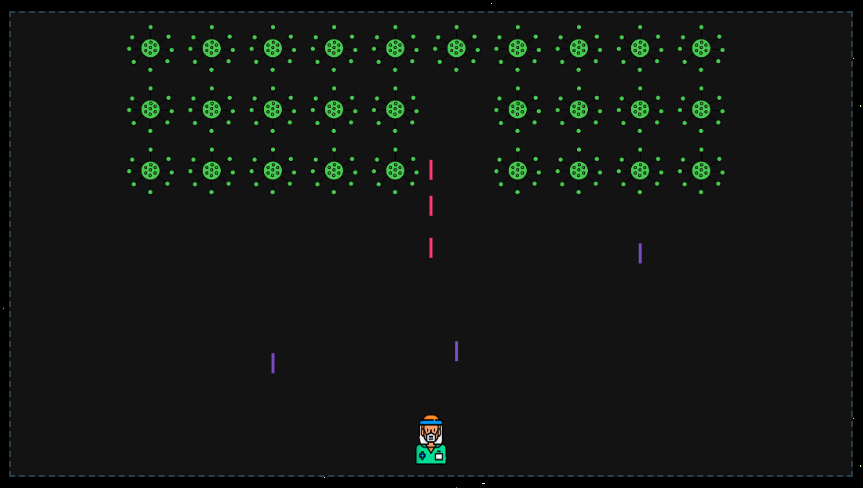
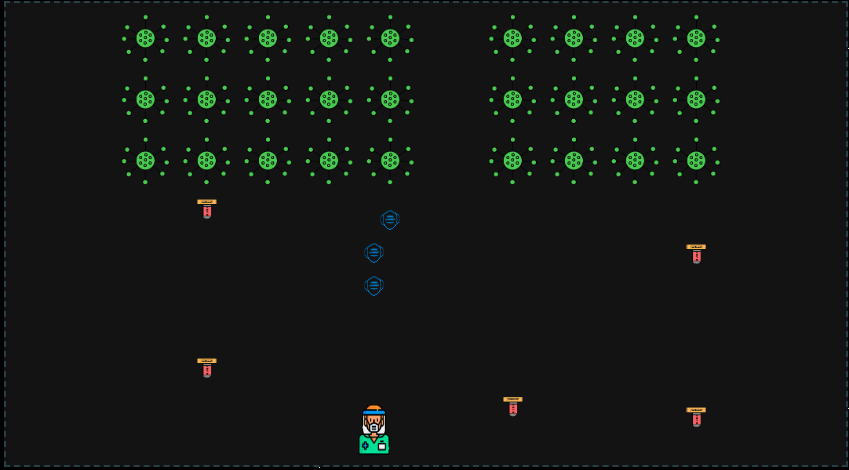
updated

diff --git a/src/pages/informationGame.js b/src/pages/informationGame.js
@@ -12,46 +12,70 @@ function informationGame(_data) {
             </div>
             
             <div class="information-content">
-                <h1 class="title">Senaryo</h1>
-                <p class="text">Yakin zamanlarda dünyadan gezegenimize gelen kişilerden korona virüsleri geldiği ortaya cikmistir. Ve kendini bu konuya adayan sağlık çalisanimiz korona virüslerini imha etmek için elinden geleni ortaya koyar. Düşük seviyede olan koronalar imha edilirse bir sonraki seviyeye geçilerek devam edilir. Eğer ki koronalar tarafından virüs kaparsa halkta buna bağlı olarak koronaya yakalanacaktır.</p>
+                <h1 class="title">Nasıl oynayabilirsin ?</h1>
+                </br>
+                <h4 class="text">
+                    Oyunumuza giriş yapmadan önce bizi giriş ekranımız karşılıyor. 
+                    Dilerseniz oyuna isiminizi yazdıktan sonra oyuna giriş yapabilirsiniz.
+                    Korona Hunter'ın açık kaynak koduna veya iletişim bilgilerine ulaşabilirsiniz.</h4>
+                    <img id="folder" src="./assets/doc1.png" width="400px" height="auto">
+                </br>
+                <h4 class="text">Space(Bosluk) tuşumuz ile koronalara maske yollayarak imha edebilirsiniz. Sag ve Sol ok tuşlari ile düşman kurşunundan kaçabilirsiniz.</h4>
+                <img id="folder" src="./assets/doc-game.png" width="400px" height="auto">
+                </br>
+                <h4 class="text"> 
+                    Oyunu basarili veya başarısız bitirdiğimiz taktirde bizi altta belirttiğimiz ekranlar karşılıyor. 
+                    Eger basarili olunduğu taktirde bir sonraki seviyeye geçebilirsin. 
+                    Başarısız olunduğu taktirde bizi ana ekrana geçebilirsin. 
+                    Tekrar oynamak istediğinde giris yapabilir ve tekrardan oyuna ulaşabilirsin.</h4>
+                <img id="folder" src="./assets/doc2.png" width="400px" height="auto">
+                <img id="folder" src="./assets/doc3.png" width="400px" height="auto">
             </div>
 
             <div class="information-content">
-                <h1 class="title">Oyun sahnesi</h1>
-                <p class="text">Oyun sahnesi olarak 3 çeşitler sahne içeriyor. Ana oyunun oynandigi, basarili olunduğunda bir sonraki asamaya gecilen  ve son olarak basarisiz olunduğunda bizi karsilicak oyun sahneleri içeriyor. Projenin giriş ekranı ve oyunun nasıl oynancagini anlatacagimiz dokümantasyon sayfalari bulunuyor. </p>
+                <h1 class="title">Senaryo</h1>
+                <p class="text">
+                    Yakın zamanlarda dünyadan gezegenimize gelen kişiler ile birlikte korona virüsleri de geldiği ortaya çıkmıştır. 
+                    Ve kendini bu konuya adayan sağlık çalışanımız korona virüslerini imha etmek için elinden geleni ortaya koyar. 
+                    Koronalar portakallı korona virüsü yollar. Sağlık çalışanımız buna karşılık maske yollayarak korona virüslerini imha eder.
+                    Düşük seviyede olan koronalar imha edilirse bir sonraki seviyeye geçilerek devam edilir. 
+                    Eğer ki koronalar tarafından virüs kaparsa halkta buna bağlı olarak koronaya yakalanacaktır. Dikkatli ol halkı kurtar!
+                </p>
+            </div>
+
+            <div class="information-content">
+                <h1 class="title">Oyun Sahnesi</h1>
+                <p class="text">
+                    Oyun sahnesi olarak 3 çeşitler sahne içeriyor. 
+                    Ana oyunun oynalındığı ekran, koronaları başarılı bir şekilde imha edildiğinde bizi karşılayacak ekran,
+                    ve son olarak basarisiz olunduğunda bizi karsilicak ekran olmak üzere oyun sahnelerini içeriyor. 
+                    Projenin giriş ekranından ulaşabilceğimiz oyunun nasıl oynancagini ve projenin detaylarını anlatılan bilgiler yer alıyor. 
+                </p>
             </div>
             
             <div class="information-content">
-                <h1 class="title">Oyunun Chrome ve Firefox Calismasi</h1>
-                <p class="text">Oyunun iki platformda da calismasini odaklanarak kodlanmistir.</p>
+                <h1 class="title">Oyunun Chrome ve Firefox Üzerinde Calismasi</h1>
+                <p class="text">
+                Oyunun iki platformda da calismasini odaklanarak kodlanmistir.
+                </p>
             </div>
 
             <div class="information-content">
                 <h1 class="title">Proje Detaylari</h1>
-                <p class="text">Projeniz klasör hapisini düzenli bir sekilde hazirlanmistir. Oluşturmuş oldugum klasör yapisi su sekildedir:</p>
+                <p class="text">
+                Proje klasör yapisini düzenli ve belirli bir yapı takip edilerek düzenlenmiştir. 
+                Oluşturulan klasör yapisi şu sekildedir ↓</p>
                 <img id="folder" src="./assets/folder.png" width="300px" height="auto">
             </div>
             
             <div class="information-content">
                 <h1 class="title">Proje Karakter Cizimleri</h1>
-                <p class="text"> Kendi cizdigim karakterler ile oyunu yaptim. Cizimler icin &nbsp;<a href="https://www.figma.com/file/kTrF4iPtA7oYXXJqy539Ur/Korona-Avc%C4%B1s%C4%B1?node-id=0%3A1" target="_blank" id="link"> tikla</a></p>
+                <p class="text">
+                    Tasarımı Figma üzerinden yapılmış olan karakterler Furkan Portakal tarafından çizilmiştir.
+                    Çizimleri görüntülemek için &nbsp;<a href="https://www.figma.com/file/kTrF4iPtA7oYXXJqy539Ur/Korona-Avc%C4%B1s%C4%B1?node-id=0%3A1" target="_blank" id="link"> tıkla</a>
+                 </p>
             </div>
             
-            <div class="information-content">
-                <h1 class="title">Oyunun Oynanmasi</h1>
-                <h3 class="text">Korona Hunter oyununu oynamasi su sekildedir : </h3>
-                </br>
-                <h4 class="text">Oyunumuza giris yapmadan once bizi bir ekran karsiliyor. Dilersek oyunun acik kaynaklarini gorebilirsiniz. Dilerseniz oyuna isiminizi yazdiktan sonra oyuna giris yapabilirsiniz.</h4>
-                <img id="folder" src="./assets/doc1.png" width="400px" height="auto">
-                </br>
-                <h4 class="text"> <strong>Space(Bosluk)</strong> tusumuz ile koronalara ates edebiliyoruz.&nbsp;<strong>Sag ve Sol</strong> ok tuslari ile dusman atesinden kacabiliyoruz.</h4>
-                <img id="folder" src="./assets/doc-game.png" width="400px" height="auto">
-                </br>
-                <h4 class="text"> Oyunu basarili veya basarisiz bitirdigimizde bizi altta belirttigimiz ekranlar karsiliyor. Eger basarili oldu isek bir sonraki seviyeye gecebiliyoruz. Basarisiz oldugumuzda bizi ana ekrana yonlendiriyor. Bu sayede tekrar giris yapabilir hale geliyoruz.</h4>
-                <img id="folder" src="./assets/doc2.png" width="400px" height="auto">
-                <img id="folder" src="./assets/doc3.png" width="400px" height="auto">
-            </div>
-
         </div>
     </div>
 `;

diff --git a/src/game/game-board.js b/src/game/game-board.js
@@ -1,30 +1,32 @@
 const Game = function () {
+  // boyut kucultmek icin kullaniyoruz
   this.scl = 0.1;
 
+  // karakterlerimiz
   this.player = document.getElementById("player");
   this.korona = document.getElementById("korona");
   this.koronaKursun = document.getElementById("koronaKursun");
   this.playerKursun = document.getElementById("playerKursun");
 
-  this.sd = {
-    w: 384 * this.scl,
-    h: 512 * this.scl,
+  this.scaled = {
+    width: 384 * this.scl,
+    height: 512 * this.scl,
   };
 
   // dusman koronalarin initial bilgileri
   this.id = {
-    w: 512 * this.scl,
-    h: 512 * this.scl,
+    width: 512 * this.scl,
+    height: 512 * this.scl,
     rows: 3,
     cols: 10,
     gap: 10,
   };
 
   this.ship = {
-    x: canvasWidth / 2 - this.sd.w / 2,
-    y: canvasHeight - 10 - this.sd.h,
-    w: this.sd.w,
-    h: this.sd.h,
+    x: canvasWidth / 2 - this.scaled.width / 2,
+    y: canvasHeight - 10 - this.scaled.height,
+    width: this.scaled.width,
+    height: this.scaled.height,
   };
 
   this.shipMissiles = new Array();
@@ -35,45 +37,59 @@ const Game = function () {
   this.invadersMissiles = new Array();
   this.invaderMissileSpeed = 3;
 
-  this.missileWidth = 3;
+  this.missileWidth = 20;
   this.missileHeight = 20;
 
   this.completed = false;
-  this.invadersRange = { x: 0, w: 0 };
+  this.invadersRange = { x: 0, width: 0 };
 
   this.init = function () {
-    let dd = this.id;
-    this.invadersRange.w = dd.cols * dd.w + dd.cols * dd.gap;
-    this.invadersRange.x = canvasWidth / 2 - this.invadersRange.w / 2;
+    let propertyKorona = this.id;
+    this.invadersRange.width =
+      propertyKorona.cols * propertyKorona.width +
+      propertyKorona.cols * propertyKorona.gap;
+
+    this.invadersRange.x = canvasWidth / 2 - this.invadersRange.width / 2;
+
     let yoffset = 10;
     let xoffset = this.invadersRange.x;
-    for (let x = 0; x < dd.cols; x++) {
-      for (let y = 0; y < dd.rows; y++) {
+
+    for (let x = 0; x < propertyKorona.cols; x++) {
+      for (let y = 0; y < propertyKorona.rows; y++) {
         let invader = {
-          x: x * dd.w + x * dd.gap,
-          y: y * dd.h + y * dd.gap,
-          w: dd.w,
-          h: dd.h,
+          x: x * propertyKorona.width + x * propertyKorona.gap,
+          y: y * propertyKorona.height + y * propertyKorona.gap,
+          width: propertyKorona.width,
+          height: propertyKorona.height,
         };
+
         invader.x += xoffset;
         invader.y += yoffset;
         this.invaders.push(invader);
       }
     }
   };
+
   //image
   this.draw = function (cc) {
     for (let i = 0; i < this.invaders.length; i++) {
       let invader = this.invaders[i];
-      drawImg(cc, this.korona, invader.x, invader.y, invader.w, invader.h);
+      drawImg(
+        cc,
+        this.korona,
+        invader.x,
+        invader.y,
+        invader.width,
+        invader.height
+      );
     }
     drawImg(
       cc,
       this.player,
       this.ship.x,
       this.ship.y,
-      this.ship.w,
-      this.ship.h
+      this.ship.width,
+      this.ship.height
     );
   };
 
@@ -97,16 +113,17 @@ const Game = function () {
       this.ship.x = this.invadersRange.x;
     }
     if (
-      this.ship.x + this.ship.w >
-      this.invadersRange.x + this.invadersRange.w
+      this.ship.x + this.ship.width >
+      this.invadersRange.x + this.invadersRange.width
     ) {
-      this.ship.x = this.invadersRange.x + this.invadersRange.w - this.ship.w;
+      this.ship.x =
+        this.invadersRange.x + this.invadersRange.width - this.ship.width;
     }
   };
 
   this.shipShootMissile = function () {
     let missile = {
-      x: this.ship.x + this.ship.w / 2 - this.missileWidth / 2,
+      x: this.ship.x + this.ship.width / 2 - this.missileWidth / 2,
       y: this.ship.y - this.missileHeight,
     };
     this.shipMissiles.push(missile);
@@ -126,8 +143,8 @@ const Game = function () {
             this.missileHeight,
             inv.x,
             inv.y,
-            inv.w,
-            inv.h
+            inv.width,
+            inv.height
           )
         ) {
           this.shipMissiles.splice(i, 1);
@@ -141,7 +158,7 @@ const Game = function () {
         missile.y,
         this.missileWidth,
         this.missileHeight,
-        shipMissileColor
+        this.playerKursun
       );
     }
 
@@ -156,8 +173,8 @@ const Game = function () {
           this.missileHeight,
           this.ship.x,
           this.ship.y,
-          this.ship.w,
-          this.ship.h
+          this.ship.width,
+          this.ship.height
         )
       ) {
         this.completed = true;
@@ -170,7 +187,7 @@ const Game = function () {
         missile.y,
         this.missileWidth,
         this.missileHeight,
-        invaderMissileColor
+        this.koronaKursun
       );
     }
   };
@@ -182,8 +199,8 @@ const Game = function () {
         Math.floor(Math.random() * this.invaders.length)
       ];
       let missile = {
-        x: invader.x + invader.w / 2 - this.missileWidth / 2,
-        y: invader.y + invader.h,
+        x: invader.x + invader.width / 2 - this.missileWidth / 2,
+        y: invader.y + invader.height,
       };
       this.invadersMissiles.push(missile);
     }
@@ -200,7 +217,7 @@ const Game = function () {
       this.ship.y = 3;
       this.invaderMissileSpeed = 3;
 
-      route("gamesuccess", { score: 2, username: username });
+      route("gamesuccess", { username: username });
     }
   };
 };

diff --git a/src/pages/home.js b/src/pages/home.js
@@ -13,12 +13,12 @@ function homeScreen(data) {
 
         <div class="home-info">
           <a class="github" target="_blank" href="https://github.com/fport/korona-hunter">Proje Kodu</a>
-          <a class="linkedin" target="_blank" href="https://linktr.ee/furkanportakal">Iletisim</a>
-          <button class="docs" onClick="route('informationGame')">Dokumantasyon</button>
+          <a class="linkedin" target="_blank" href="https://linktr.ee/furkanportakal">İletisim</a>
+          <button class="docs" onClick="route('informationGame')">Dökümantasyon</button>
         </div>
 
         <div class="home-start-game">
-          <input type="text" id="name" placeholder="isim gir">
+          <input type="text" id="name" placeholder="isim gir" value="${userName}">
           <button class="home-to-game" onclick="startGame()">oyuna gir</button> 
         </div>
 
@@ -28,6 +28,10 @@ function homeScreen(data) {
   </div>
 `;
 }
+
+const userName = localStorage.getItem("user")
+  ? localStorage.getItem("user")
+  : "";
 
 function startGame() {
   let usernameInputValue = document.querySelector("#name").value;

diff --git a/src/game/helper.js b/src/game/helper.js
@@ -3,9 +3,8 @@ function clearCanvas(cc) {
   cc.fillRect(0, 0, canvasWidth, canvasHeight);
 }
 
-function drawRect(cc, x, y, w, h, color) {
-  cc.fillStyle = color;
-  cc.fillRect(x, y, w, h);
+function drawRect(cc, x, y, w, h, img) {
+  cc.drawImage(img, x, y, w, h);
 }
 
 function drawImg(cc, img, x, y, w, h) {

diff --git a/src/game/core.js b/src/game/core.js
@@ -3,8 +3,6 @@ const RIGHT_ASCII = 39;
 const SPACE_ASCII = 32;
 
 const clearColor = "#121212";
-const shipMissileColor = "#FC427B";
-const invaderMissileColor = "#8854d0";
 
 let gameCanvas, canvasWidth, canvasHeight;
 

diff --git a/src/css/informationGame.css b/src/css/informationGame.css
@@ -19,7 +19,7 @@
     align-items: center;
     border: 2px dashed black;
     background-color: #141618;
-    width: 60%;
+    width: 50%;
     height: 90%;
     padding: 1rem;
     margin: 2rem 0;
